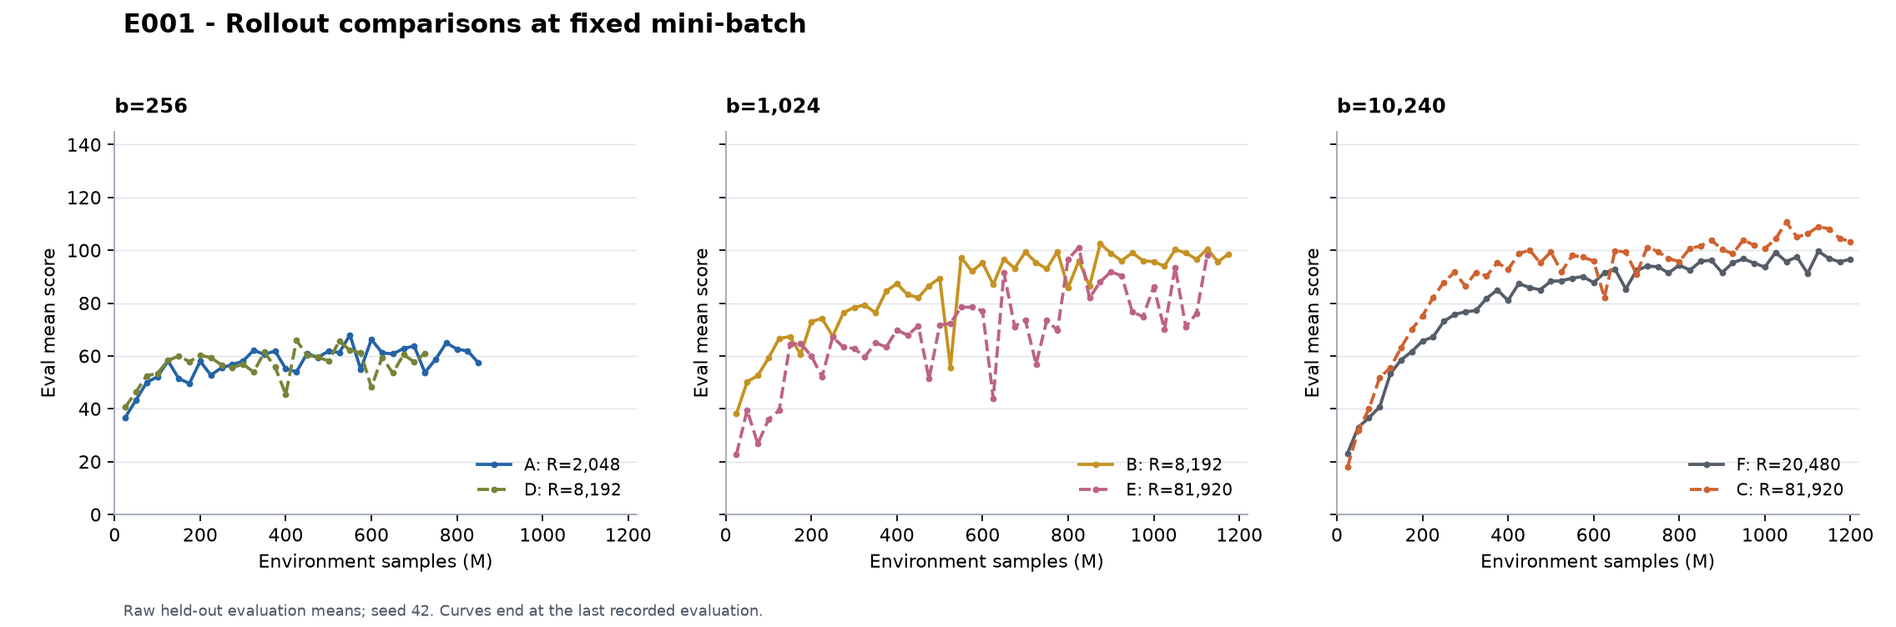
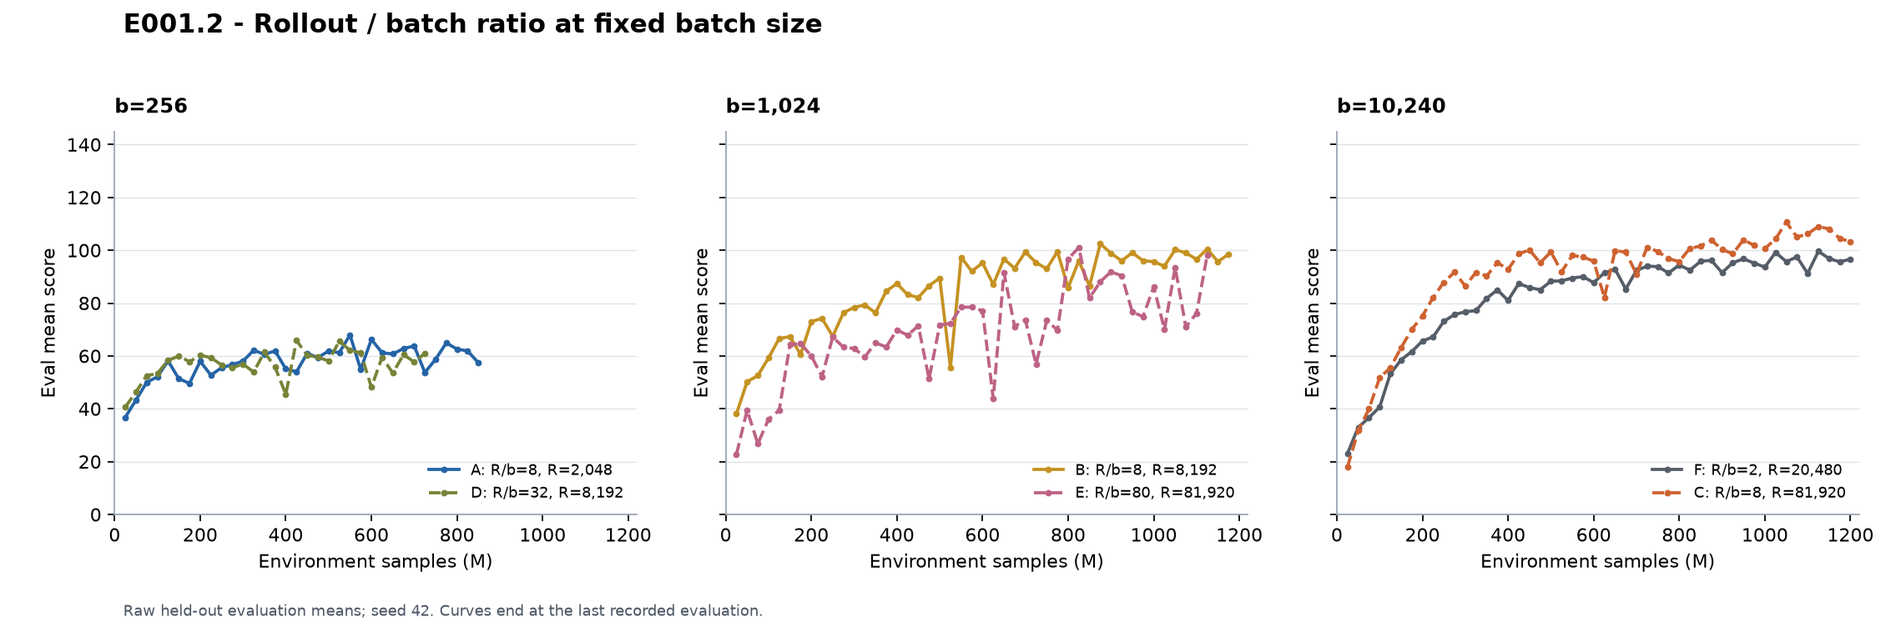
Align batch and rollout analyses with fixed ratio experiment design

diff --git a/scripts/analyze_wandb_runs.py b/scripts/analyze_wandb_runs.py
@@ -211,25 +211,18 @@ def main():
     for key in "ABC":
         r = baselines[key]
         score_line(ax, r, f"{key}: b={r['config']['ppo']['batch_size']:,}, R={r['R']:,}", GROUP_COLORS[key], STYLES["ABC".index(key)])
-    axes_style(ax, "Joint scaling at fixed R / b = 8", xmax=1200)
+    axes_style(ax, "Batch size at fixed rollout / batch = 8", xmax=1200)
     ax.legend(loc="lower right")
-    save(fig, "e001_joint_scale.png", "E001 - Mini-batch and rollout scaling")
-
-    fig, axes = plt.subplots(1, 2, figsize=(12, 4.8), sharey=True)
-    for ax, pair, title in zip(axes, ["BD", "CE"], ["Fixed R=8,192: b=1,024 vs 256", "Fixed R=81,920: b=10,240 vs 1,024"]):
-        for j, key in enumerate(pair):
-            score_line(ax, baselines[key], key, GROUP_COLORS[key], STYLES[j])
-        axes_style(ax, title, xmax=1200)
-        ax.legend()
-    save(fig, "e001_fixed_rollout.png", "E001 - Mini-batch comparisons at fixed rollout")
+    save(fig, "e001_batch_scale.png", "E001.1 - Batch size at fixed rollout / batch = 8")
 
     fig, axes = plt.subplots(1, 3, figsize=(14.2, 4.7), sharey=True)
     for ax, pair, title in zip(axes, ["AD", "BE", "FC"], ["b=256", "b=1,024", "b=10,240"]):
         for j, key in enumerate(pair):
-            score_line(ax, baselines[key], f"{key}: R={baselines[key]['R']:,}", GROUP_COLORS[key], STYLES[j])
+            ratio = baselines[key]['R'] / baselines[key]['config']['ppo']['batch_size']
+            score_line(ax, baselines[key], f"{key}: R/b={ratio:g}, R={baselines[key]['R']:,}", GROUP_COLORS[key], STYLES[j])
         axes_style(ax, title, xmax=1200)
-        ax.legend(fontsize=9, loc="lower right")
-    save(fig, "e001_fixed_batch.png", "E001 - Rollout comparisons at fixed mini-batch")
+        ax.legend(fontsize=8, loc="lower right")
+    save(fig, "e001_fixed_batch.png", "E001.2 - Rollout / batch ratio at fixed batch size")
 
     diagnostics = [("entropy", "Policy entropy"), ("value_loss", "Value loss"), ("policy_approx_kl", "PPO approximate KL"), ("clip_fraction", "Clip fraction"), ("raw_adv_std", "Raw advantage std"), ("critic_explained_variance", "Critic explained variance")]
     fig, axes = plt.subplots(2, 3, figsize=(14.2, 8.1))

diff --git a/scripts/build_experiment_readme.py b/scripts/build_experiment_readme.py
@@ -46,10 +46,10 @@ def run_interpretation(row):
     if row.study == "E001":
         notes = {
             "A":"The small-scale baseline stays well below B/C's late score range. It stops after 12 evals without a new high; this does not establish an infinite-sample ceiling.",
-            "B":"At fixed R=8,192, this larger mini-batch outperforms D over much of training. It also shows transient eval drops, so its best point should not stand in for the full trajectory.",
-            "C":"The largest joint scale has the highest observed E001 peak and late-four mean. It reaches the sample cap, with some regression after its peak; no asymptotic ceiling is measured.",
-            "D":"At fixed R=8,192 this b=256 run is much weaker than B. Increasing rollout relative to A does not produce a higher observed peak.",
-            "E":"At fixed R=81,920 it trails C through much of the curve. Its last single eval rebounds to 98.21, but the last-four mean is only 84.71, illustrating endpoint sensitivity.",
+            "B":"At rollout/batch=8, batch 1,024 substantially outperforms batch 256 (A), while batch 10,240 (C) achieves higher later scores. At the same batch 1,024, increasing the ratio to 80 (E) slows learning.",
+            "C":"At rollout/batch=8, batch 10,240 has the highest observed E001 peak and late-four mean. At this same batch size it also outperforms ratio 2 (F). It reaches the sample cap, with some regression after its peak; no asymptotic ceiling is measured.",
+            "D":"At batch 256, increasing rollout/batch from 8 (A) to 32 does not produce a higher observed peak and reduces the score at 600M.",
+            "E":"At batch 1,024, increasing rollout/batch from 8 (B) to 80 slows learning. Its last single eval rebounds to 98.21, but the last-four mean is only 84.71, illustrating endpoint sensitivity.",
             "F":"Compared with C at the same b=10,240 and 1,200M budget, the smaller rollout has lower last and last-four eval scores. This rollout benefit does not generalize to the b=256/1,024 comparisons.",
         }
         return notes[row.variant]

diff --git a/scripts/readme_sections.py b/scripts/readme_sections.py
@@ -134,8 +134,8 @@ def blocks(results, lookup, configs, at, number, millions, table):
         "SMALL_DIAGRAM":entity_diagram(16,32,2),"BASE_DIAGRAM":entity_diagram(32,64,3),"TEACHER_DIAGRAM":TEACHER_DIAGRAM,
         "ORIGINAL_FEATURES":table(["Channel","Feature","Encoding"],original),
         **{key:table(["Index","Feature","Encoding"],value) for key,value in zip(["CELL_FEATURES","SNAKE_FEATURES","FOOD_FEATURES","GLOBAL_FEATURES"],features)},
-        "E001_BATCH_CONFIG":scale_config("DBEC"),
-        "E001_BATCH_RESULTS":scale_results("DBEC"),
+        "E001_BATCH_CONFIG":scale_config("ABC"),
+        "E001_BATCH_RESULTS":scale_results("ABC"),
         "E001_ROLLOUT_CONFIG":scale_config("ADBEFC"),
         "E001_ROLLOUT_RESULTS":scale_results("ADBEFC"),
         "E002_EARLY":table(["Scale","Epochs","Score @25M","Score @50M","Score @100M"],early),

diff --git a/README.md b/README.md
@@ -6,8 +6,8 @@ The board is **12×12**, the initial snake length is **3**, and the maximum scor
 
 ## Main results
 
-- **Larger mini-batches achieve higher scores at fixed rollout size.** At 600M, increasing batch 256→1,024 at `R=8,192` raises the score **48.16→95.23**; increasing batch 1,024→10,240 at `R=81,920` raises it **77.06→95.87**.
-- **A larger rollout does not consistently improve scores at fixed batch size.** It helps batch 10,240 in these runs, but not batch 256 or 1,024.
+- **Larger batches achieve higher scores when rollout/batch stays at 8.** A/B/C use batches **256 / 1,024 / 10,240** and reach best scores of **67.94 / 102.48 / 110.65**. Rollout size and environment count grow proportionally with batch size.
+- **Increasing rollout/batch at a fixed batch size does not consistently improve scores.** It helps batch 10,240 when the ratio grows from 2 to 8, but not batch 256 or 1,024 in the tested comparisons.
 - **More PPO epochs can learn faster initially, but hurt later scores.** The early speedup is clearest at batch 10,240. Small batches suffer much more from repeated updates; eight epochs causes severe degradation at batch 256 and 1,024.
 - **Switching to a larger batch does not generally recover the score of starting with that batch.** A→B and A→C stay lower, while B-500M→C almost catches up. Early, middle and late switches produce different outcomes.
 - **Transformer models with richer features score much higher than the baseline MLP.** The small entity Transformer reaches **125.55**; increasing model size raises this to **132.94** and speeds up learning.
@@ -15,8 +15,8 @@ The board is **12×12**, the initial snake length is **3**, and the maximum scor
 
 | Experiment | Content | Model |
 | --- | --- | --- |
-| [E001.1](#e001-batch) | Mini-batch size, with rollout held fixed | Baseline MLP |
-| [E001.2](#e001-rollout) | Rollout size, with mini-batch held fixed | Baseline MLP |
+| [E001.1](#e001-batch) | Batch size, keeping rollout/batch = 8 | Baseline MLP |
+| [E001.2](#e001-rollout) | Rollout/batch ratio, keeping batch size fixed | Baseline MLP |
 | [E002](#e002) | PPO epochs | Baseline MLP |
 | [E003](#e003) | Switch the complete batch/rollout scale during training | Baseline MLP |
 | [E004](#e004) | Features, architecture, model size and teacher KL | CNN and Transformer variants |
@@ -88,21 +88,20 @@ flowchart TD
 <a id="e001"></a>
 <a id="e001-batch"></a>
 
-## E001.1 — Mini-batch size
+## E001.1 — Batch size at fixed rollout/batch
 
 ### Experiment contents
 
-Keep rollout size, number of environments and rollout horizon fixed, and change only the PPO mini-batch size. Compare **D vs B** at `R=8,192`, and **E vs C** at `R=81,920`.
+Compare **A, B and C** with mini-batch sizes **256, 1,024 and 10,240**, keeping **rollout/batch = 8**. Rollout size and the number of parallel environments increase proportionally; the per-environment rollout horizon stays at 64 steps.
 
 ### Key configuration
 
-All runs use the baseline MLP, original three-plane features, epoch 1 and learning rate 0.0003.
+All three runs use the baseline MLP, original three-plane features, epoch 1 and learning rate 0.0003. Each rollout supplies **8 mini-batch optimizer steps**. This is the project's batch-scaling experiment: the fixed quantity is `R/b`, rather than the absolute rollout size.
 
 | Run | Mini-batch b | Rollout R | Environments | R/b |
 | --- | --- | --- | --- | --- |
-| D | 256 | 8,192 | 128 | 32 |
+| A | 256 | 2,048 | 32 | 8 |
 | B | 1,024 | 8,192 | 128 | 8 |
-| E | 1,024 | 81,920 | 1,280 | 80 |
 | C | 10,240 | 81,920 | 1,280 | 8 |
 
 ### Model architecture
@@ -120,34 +119,37 @@ flowchart TD
 
 | Run | Eval @300M | Eval @600M | Best score | Last score | Last 4 evals | Training M |
 | --- | --- | --- | --- | --- | --- | --- |
-| D | 56.90 | 48.16 | 65.83 | 60.92 | 58.16 | 725 |
+| A | 58.03 | 66.26 | 67.94 | 57.39 | 61.69 | 850 |
 | B | 78.38 | 95.23 | 102.48 | 98.56 | 97.82 | 1175 |
-| E | 62.82 | 77.06 | 101.03 | 98.21 | 84.71 | 1125 |
 | C | 86.44 | 95.87 | 110.65 | 103.24 | 106.19 | 1200 |
 
-![Mini-batch experiment: rollout held fixed](docs/analysis/figures/e001_fixed_rollout.png)
+![Batch experiment: A/B/C with rollout/batch = 8](docs/analysis/figures/e001_batch_scale.png)
+
+![Batch experiment: training diagnostics at rollout/batch = 8](docs/analysis/figures/e001_diagnostics.png)
 
 ### Analysis
 
-1. **At R=8,192, batch 1,024 outperforms batch 256.** At 600M samples, B scores **95.23** versus D's **48.16**. Their best scores are **102.48 vs 65.83**.
-2. **At R=81,920, batch 10,240 outperforms batch 1,024.** At 600M, C scores **95.87** versus E's **77.06**. Their best scores are **110.65 vs 101.03**. E also learns more slowly through much of training.
-3. **The batch benefit appears at both fixed rollout sizes.** It cannot be explained solely by collecting a bigger rollout, because each pair collects the same number of transitions before updating. Smaller mini-batches perform more optimizer steps over that rollout, so changing batch also changes the update dynamics.
+1. **Batch 256 has a much lower score range.** At 600M samples, A scores **66.26**, compared with **95.23** for B and **95.87** for C.
+2. **The largest batch achieves the highest later scores.** B and C are close at 600M, but their best scores are **102.48 and 110.65**. The means of their last four evals are **97.82 and 106.19**, compared with **61.69** for A. These tail windows occur at different training endpoints, as the table shows.
+3. **Larger batches have lower value loss and slower entropy decay.** During 500–600M, A/B/C have average value losses of approximately **0.154 / 0.109 / 0.090**, entropy of **0.0186 / 0.0229 / 0.0345**, and raw advantage std of **0.398 / 0.332 / 0.300**.
+
+The comparison measures scaling batch and rollout together at a fixed ratio. It does not separate their individual contributions. At epoch 1, all runs still use each collected transition once, while larger batches reduce the number of optimizer steps per environment sample.
 
 ### Conclusion
 
-**Increasing the mini-batch size raises the achieved score in both fixed-rollout comparisons.** This is the clearest evidence for a batch-size benefit: the rollout and parallel environment count stay fixed within each comparison.
+**At rollout/batch = 8, increasing batch size raises the achieved score range, with batch 10,240 producing the highest observed scores.** The improvement from 1,024 to 10,240 is most visible later in training.
 
 <a id="e001-rollout"></a>
 
-## E001.2 — Rollout size
+## E001.2 — Rollout/batch ratio at fixed batch size
 
 ### Experiment contents
 
-Keep PPO mini-batch size fixed, and change the amount of experience collected before updating. Compare **A vs D** at batch 256, **B vs E** at batch 1,024, and **F vs C** at batch 10,240. Rollout size changes through the number of environments; the per-environment horizon remains 64.
+Keep PPO mini-batch size fixed and change **rollout/batch**: compare **A vs D** at batch 256 (**8 vs 32**), **B vs E** at batch 1,024 (**8 vs 80**), and **F vs C** at batch 10,240 (**2 vs 8**). Rollout size changes through the number of environments; the per-environment horizon remains 64.
 
 ### Key configuration
 
-All runs use the baseline MLP, original three-plane features, epoch 1 and learning rate 0.0003. `R = number of environments × 64`.
+All runs use the baseline MLP, original three-plane features, epoch 1 and learning rate 0.0003. `R = number of environments × 64`. At epoch 1, `R/b` is also the number of mini-batch optimizer steps per rollout; increasing it does not increase how often each transition is reused.
 
 | Run | Mini-batch b | Rollout R | Environments | R/b |
 | --- | --- | --- | --- | --- |
@@ -180,29 +182,19 @@ flowchart TD
 | F | 76.70 | 87.74 | 99.58 | 96.64 | 97.17 | 1200 |
 | C | 86.44 | 95.87 | 110.65 | 103.24 | 106.19 | 1200 |
 
-![Rollout experiment: mini-batch held fixed](docs/analysis/figures/e001_fixed_batch.png)
+![Rollout experiment: varying rollout/batch at fixed batch size](docs/analysis/figures/e001_fixed_batch.png)
 
 ### Analysis
 
-1. **At batch 256, a larger rollout does not improve the score.** Increasing R from 2,048 to 8,192 changes the best score from **67.94 to 65.83**. At 600M, the smaller rollout scores **66.26**, versus **48.16** for the larger rollout.
-2. **At batch 1,024, the larger rollout learns more slowly.** At 600M, R=8,192 scores **95.23**, versus **77.06** for R=81,920. Their best scores are similar, **102.48 vs 101.03**.
-3. **At batch 10,240, the larger rollout helps.** At the shared 1,200M endpoint, R=81,920 scores **103.24**, versus **96.64** for R=20,480. Their best scores are **110.65 vs 99.58**.
+1. **At batch 256, increasing R/b from 8 to 32 does not improve the score.** Increasing R from 2,048 to 8,192 changes the best score from **67.94 to 65.83**. At 600M, ratio 8 scores **66.26**, versus **48.16** for ratio 32.
+2. **At batch 1,024, increasing R/b from 8 to 80 slows learning.** At 600M, ratio 8 scores **95.23**, versus **77.06** for ratio 80. Their best scores are similar, **102.48 vs 101.03**.
+3. **At batch 10,240, increasing R/b from 2 to 8 helps.** At the shared 1,200M endpoint, ratio 8 scores **103.24**, versus **96.64** for ratio 2. Their best scores are **110.65 vs 99.58**.
 
 Rollout size determines how often a new policy collects fresh data. Here it also changes the number of parallel environments. Its effect depends on the mini-batch size rather than following a simple larger-is-better rule.
 
-#### Joint-scale reference: A/B/C
-
-The original A/B/C comparison increases **both** mini-batch and rollout size while keeping `R/b=8`. It remains useful as an overview of joint scaling, separate from the two single-variable experiments above.
-
-![Joint-scale reference: both batch and rollout change](docs/analysis/figures/e001_joint_scale.png)
-
-![E001: training diagnostics](docs/analysis/figures/e001_diagnostics.png)
-
-The larger joint scales have lower value loss and slower entropy decay. During 500–600M, A/B/C have average value losses of approximately **0.154 / 0.109 / 0.090**, entropy of **0.0186 / 0.0229 / 0.0345**, and raw advantage std of **0.398 / 0.332 / 0.300**. Because both variables change in A/B/C, these diagnostics describe joint scale rather than an isolated batch or rollout effect.
-
 ### Conclusion
 
-**Increasing rollout size alone does not consistently raise performance.** It helps at batch 10,240, but not at batch 256 or 1,024 in these runs. Combined with E001.1, the results show a clearer benefit from mini-batch growth than from rollout growth alone.
+**At a fixed batch size, a larger rollout/batch ratio is not always better.** Ratio 8 outperforms 32 at batch 256 and learns faster than 80 at batch 1,024, while increasing the ratio from 2 to 8 helps batch 10,240. Together with E001.1, this shows that simply increasing rollout at a fixed batch does not reproduce the gains from scaling batch and rollout proportionally.
 
 <a id="e002"></a>
 

diff --git a/docs/analysis/readme-template.md b/docs/analysis/readme-template.md
@@ -6,8 +6,8 @@ The board is **12×12**, the initial snake length is **3**, and the maximum scor
 
 ## Main results
 
-- **Larger mini-batches achieve higher scores at fixed rollout size.** At 600M, increasing batch 256→1,024 at `R=8,192` raises the score **48.16→95.23**; increasing batch 1,024→10,240 at `R=81,920` raises it **77.06→95.87**.
-- **A larger rollout does not consistently improve scores at fixed batch size.** It helps batch 10,240 in these runs, but not batch 256 or 1,024.
+- **Larger batches achieve higher scores when rollout/batch stays at 8.** A/B/C use batches **256 / 1,024 / 10,240** and reach best scores of **67.94 / 102.48 / 110.65**. Rollout size and environment count grow proportionally with batch size.
+- **Increasing rollout/batch at a fixed batch size does not consistently improve scores.** It helps batch 10,240 when the ratio grows from 2 to 8, but not batch 256 or 1,024 in the tested comparisons.
 - **More PPO epochs can learn faster initially, but hurt later scores.** The early speedup is clearest at batch 10,240. Small batches suffer much more from repeated updates; eight epochs causes severe degradation at batch 256 and 1,024.
 - **Switching to a larger batch does not generally recover the score of starting with that batch.** A→B and A→C stay lower, while B-500M→C almost catches up. Early, middle and late switches produce different outcomes.
 - **Transformer models with richer features score much higher than the baseline MLP.** The small entity Transformer reaches **125.55**; increasing model size raises this to **132.94** and speeds up learning.
@@ -15,8 +15,8 @@ The board is **12×12**, the initial snake length is **3**, and the maximum scor
 
 | Experiment | Content | Model |
 | --- | --- | --- |
-| [E001.1](#e001-batch) | Mini-batch size, with rollout held fixed | Baseline MLP |
-| [E001.2](#e001-rollout) | Rollout size, with mini-batch held fixed | Baseline MLP |
+| [E001.1](#e001-batch) | Batch size, keeping rollout/batch = 8 | Baseline MLP |
+| [E001.2](#e001-rollout) | Rollout/batch ratio, keeping batch size fixed | Baseline MLP |
 | [E002](#e002) | PPO epochs | Baseline MLP |
 | [E003](#e003) | Switch the complete batch/rollout scale during training | Baseline MLP |
 | [E004](#e004) | Features, architecture, model size and teacher KL | CNN and Transformer variants |
@@ -77,15 +77,15 @@ Each feature is a 12×12 binary plane. The three planes are flattened into **432
 <a id="e001"></a>
 <a id="e001-batch"></a>
 
-## E001.1 — Mini-batch size
+## E001.1 — Batch size at fixed rollout/batch
 
 ### Experiment contents
 
-Keep rollout size, number of environments and rollout horizon fixed, and change only the PPO mini-batch size. Compare **D vs B** at `R=8,192`, and **E vs C** at `R=81,920`.
+Compare **A, B and C** with mini-batch sizes **256, 1,024 and 10,240**, keeping **rollout/batch = 8**. Rollout size and the number of parallel environments increase proportionally; the per-environment rollout horizon stays at 64 steps.
 
 ### Key configuration
 
-All runs use the baseline MLP, original three-plane features, epoch 1 and learning rate 0.0003.
+All three runs use the baseline MLP, original three-plane features, epoch 1 and learning rate 0.0003. Each rollout supplies **8 mini-batch optimizer steps**. This is the project's batch-scaling experiment: the fixed quantity is `R/b`, rather than the absolute rollout size.
 
 {{E001_BATCH_CONFIG}}
 
@@ -97,29 +97,33 @@ All runs use the baseline MLP, original three-plane features, epoch 1 and learni
 
 {{E001_BATCH_RESULTS}}
 
-![Mini-batch experiment: rollout held fixed](docs/analysis/figures/e001_fixed_rollout.png)
+![Batch experiment: A/B/C with rollout/batch = 8](docs/analysis/figures/e001_batch_scale.png)
+
+![Batch experiment: training diagnostics at rollout/batch = 8](docs/analysis/figures/e001_diagnostics.png)
 
 ### Analysis
 
-1. **At R=8,192, batch 1,024 outperforms batch 256.** At 600M samples, B scores **95.23** versus D's **48.16**. Their best scores are **102.48 vs 65.83**.
-2. **At R=81,920, batch 10,240 outperforms batch 1,024.** At 600M, C scores **95.87** versus E's **77.06**. Their best scores are **110.65 vs 101.03**. E also learns more slowly through much of training.
-3. **The batch benefit appears at both fixed rollout sizes.** It cannot be explained solely by collecting a bigger rollout, because each pair collects the same number of transitions before updating. Smaller mini-batches perform more optimizer steps over that rollout, so changing batch also changes the update dynamics.
+1. **Batch 256 has a much lower score range.** At 600M samples, A scores **66.26**, compared with **95.23** for B and **95.87** for C.
+2. **The largest batch achieves the highest later scores.** B and C are close at 600M, but their best scores are **102.48 and 110.65**. The means of their last four evals are **97.82 and 106.19**, compared with **61.69** for A. These tail windows occur at different training endpoints, as the table shows.
+3. **Larger batches have lower value loss and slower entropy decay.** During 500–600M, A/B/C have average value losses of approximately **0.154 / 0.109 / 0.090**, entropy of **0.0186 / 0.0229 / 0.0345**, and raw advantage std of **0.398 / 0.332 / 0.300**.
+
+The comparison measures scaling batch and rollout together at a fixed ratio. It does not separate their individual contributions. At epoch 1, all runs still use each collected transition once, while larger batches reduce the number of optimizer steps per environment sample.
 
 ### Conclusion
 
-**Increasing the mini-batch size raises the achieved score in both fixed-rollout comparisons.** This is the clearest evidence for a batch-size benefit: the rollout and parallel environment count stay fixed within each comparison.
+**At rollout/batch = 8, increasing batch size raises the achieved score range, with batch 10,240 producing the highest observed scores.** The improvement from 1,024 to 10,240 is most visible later in training.
 
 <a id="e001-rollout"></a>
 
-## E001.2 — Rollout size
+## E001.2 — Rollout/batch ratio at fixed batch size
 
 ### Experiment contents
 
-Keep PPO mini-batch size fixed, and change the amount of experience collected before updating. Compare **A vs D** at batch 256, **B vs E** at batch 1,024, and **F vs C** at batch 10,240. Rollout size changes through the number of environments; the per-environment horizon remains 64.
+Keep PPO mini-batch size fixed and change **rollout/batch**: compare **A vs D** at batch 256 (**8 vs 32**), **B vs E** at batch 1,024 (**8 vs 80**), and **F vs C** at batch 10,240 (**2 vs 8**). Rollout size changes through the number of environments; the per-environment horizon remains 64.
 
 ### Key configuration
 
-All runs use the baseline MLP, original three-plane features, epoch 1 and learning rate 0.0003. `R = number of environments × 64`.
+All runs use the baseline MLP, original three-plane features, epoch 1 and learning rate 0.0003. `R = number of environments × 64`. At epoch 1, `R/b` is also the number of mini-batch optimizer steps per rollout; increasing it does not increase how often each transition is reused.
 
 {{E001_ROLLOUT_CONFIG}}
 
@@ -131,29 +135,19 @@ All runs use the baseline MLP, original three-plane features, epoch 1 and learni
 
 {{E001_ROLLOUT_RESULTS}}
 
-![Rollout experiment: mini-batch held fixed](docs/analysis/figures/e001_fixed_batch.png)
+![Rollout experiment: varying rollout/batch at fixed batch size](docs/analysis/figures/e001_fixed_batch.png)
 
 ### Analysis
 
-1. **At batch 256, a larger rollout does not improve the score.** Increasing R from 2,048 to 8,192 changes the best score from **67.94 to 65.83**. At 600M, the smaller rollout scores **66.26**, versus **48.16** for the larger rollout.
-2. **At batch 1,024, the larger rollout learns more slowly.** At 600M, R=8,192 scores **95.23**, versus **77.06** for R=81,920. Their best scores are similar, **102.48 vs 101.03**.
-3. **At batch 10,240, the larger rollout helps.** At the shared 1,200M endpoint, R=81,920 scores **103.24**, versus **96.64** for R=20,480. Their best scores are **110.65 vs 99.58**.
+1. **At batch 256, increasing R/b from 8 to 32 does not improve the score.** Increasing R from 2,048 to 8,192 changes the best score from **67.94 to 65.83**. At 600M, ratio 8 scores **66.26**, versus **48.16** for ratio 32.
+2. **At batch 1,024, increasing R/b from 8 to 80 slows learning.** At 600M, ratio 8 scores **95.23**, versus **77.06** for ratio 80. Their best scores are similar, **102.48 vs 101.03**.
+3. **At batch 10,240, increasing R/b from 2 to 8 helps.** At the shared 1,200M endpoint, ratio 8 scores **103.24**, versus **96.64** for ratio 2. Their best scores are **110.65 vs 99.58**.
 
 Rollout size determines how often a new policy collects fresh data. Here it also changes the number of parallel environments. Its effect depends on the mini-batch size rather than following a simple larger-is-better rule.
 
-#### Joint-scale reference: A/B/C
-
-The original A/B/C comparison increases **both** mini-batch and rollout size while keeping `R/b=8`. It remains useful as an overview of joint scaling, separate from the two single-variable experiments above.
-
-![Joint-scale reference: both batch and rollout change](docs/analysis/figures/e001_joint_scale.png)
-
-![E001: training diagnostics](docs/analysis/figures/e001_diagnostics.png)
-
-The larger joint scales have lower value loss and slower entropy decay. During 500–600M, A/B/C have average value losses of approximately **0.154 / 0.109 / 0.090**, entropy of **0.0186 / 0.0229 / 0.0345**, and raw advantage std of **0.398 / 0.332 / 0.300**. Because both variables change in A/B/C, these diagnostics describe joint scale rather than an isolated batch or rollout effect.
-
 ### Conclusion
 
-**Increasing rollout size alone does not consistently raise performance.** It helps at batch 10,240, but not at batch 256 or 1,024 in these runs. Combined with E001.1, the results show a clearer benefit from mini-batch growth than from rollout growth alone.
+**At a fixed batch size, a larger rollout/batch ratio is not always better.** Ratio 8 outperforms 32 at batch 256 and learns faster than 80 at batch 1,024, while increasing the ratio from 2 to 8 helps batch 10,240. Together with E001.1, this shows that simply increasing rollout at a fixed batch does not reproduce the gains from scaling batch and rollout proportionally.
 
 <a id="e002"></a>
 

diff --git a/docs/analysis/run-catalog.md b/docs/analysis/run-catalog.md
@@ -34,7 +34,7 @@ Observed logged training time: **4.19 h**; optimizer steps: **1,147,464**. Job t
 
 ![E001 batch rollout scale exp-B: evaluation and training scores](figures/runs/1fl1l7hm.png)
 
-**Interpretation:** At fixed R=8,192, this larger mini-batch outperforms D over much of training. It also shows transient eval drops, so its best point should not stand in for the full trajectory.
+**Interpretation:** At rollout/batch=8, batch 1,024 substantially outperforms batch 256 (A), while batch 10,240 (C) achieves higher later scores. At the same batch 1,024, increasing the ratio to 80 (E) slows learning.
 
 ## E001 C — `pqn9f1sl`
 
@@ -50,7 +50,7 @@ Observed logged training time: **3.16 h**; optimizer steps: **117,192**. Job tim
 
 ![E001 batch rollout scale exp-C: evaluation and training scores](figures/runs/pqn9f1sl.png)
 
-**Interpretation:** The largest joint scale has the highest observed E001 peak and late-four mean. It reaches the sample cap, with some regression after its peak; no asymptotic ceiling is measured.
+**Interpretation:** At rollout/batch=8, batch 10,240 has the highest observed E001 peak and late-four mean. At this same batch size it also outperforms ratio 2 (F). It reaches the sample cap, with some regression after its peak; no asymptotic ceiling is measured.
 
 ## E001 D — `imrudw4e`
 
@@ -66,7 +66,7 @@ Observed logged training time: **2.88 h**; optimizer steps: **2,832,032**. Job t
 
 ![E001 batch rollout scale exp-D: evaluation and training scores](figures/runs/imrudw4e.png)
 
-**Interpretation:** At fixed R=8,192 this b=256 run is much weaker than B. Increasing rollout relative to A does not produce a higher observed peak.
+**Interpretation:** At batch 256, increasing rollout/batch from 8 (A) to 32 does not produce a higher observed peak and reduces the score at 600M.
 
 ## E001 E — `ywj4sihn`
 
@@ -82,7 +82,7 @@ Observed logged training time: **2.88 h**; optimizer steps: **1,098,640**. Job t
 
 ![E001 batch rollout scale exp-E: evaluation and training scores](figures/runs/ywj4sihn.png)
 
-**Interpretation:** At fixed R=81,920 it trails C through much of the curve. Its last single eval rebounds to 98.21, but the last-four mean is only 84.71, illustrating endpoint sensitivity.
+**Interpretation:** At batch 1,024, increasing rollout/batch from 8 (B) to 80 slows learning. Its last single eval rebounds to 98.21, but the last-four mean is only 84.71, illustrating endpoint sensitivity.
 
 ## E001 F — `9ag8xl46`
 
